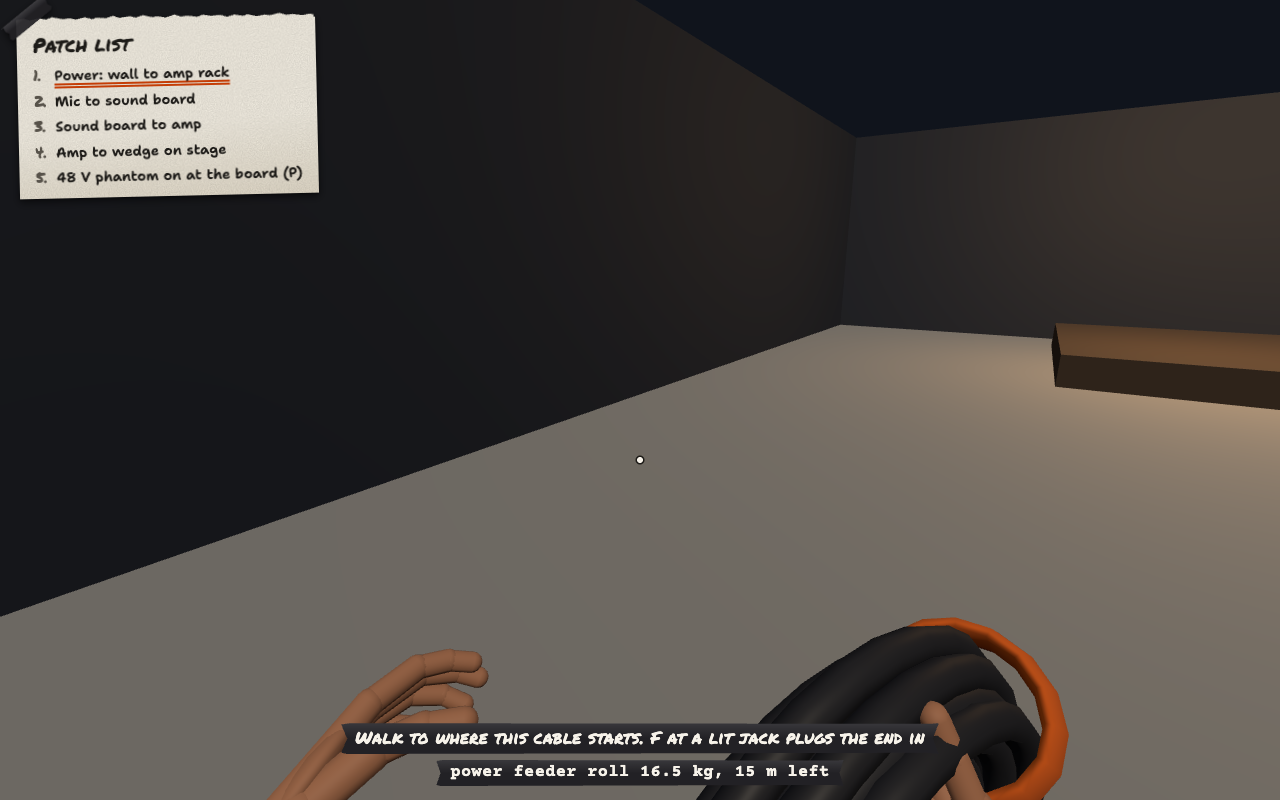
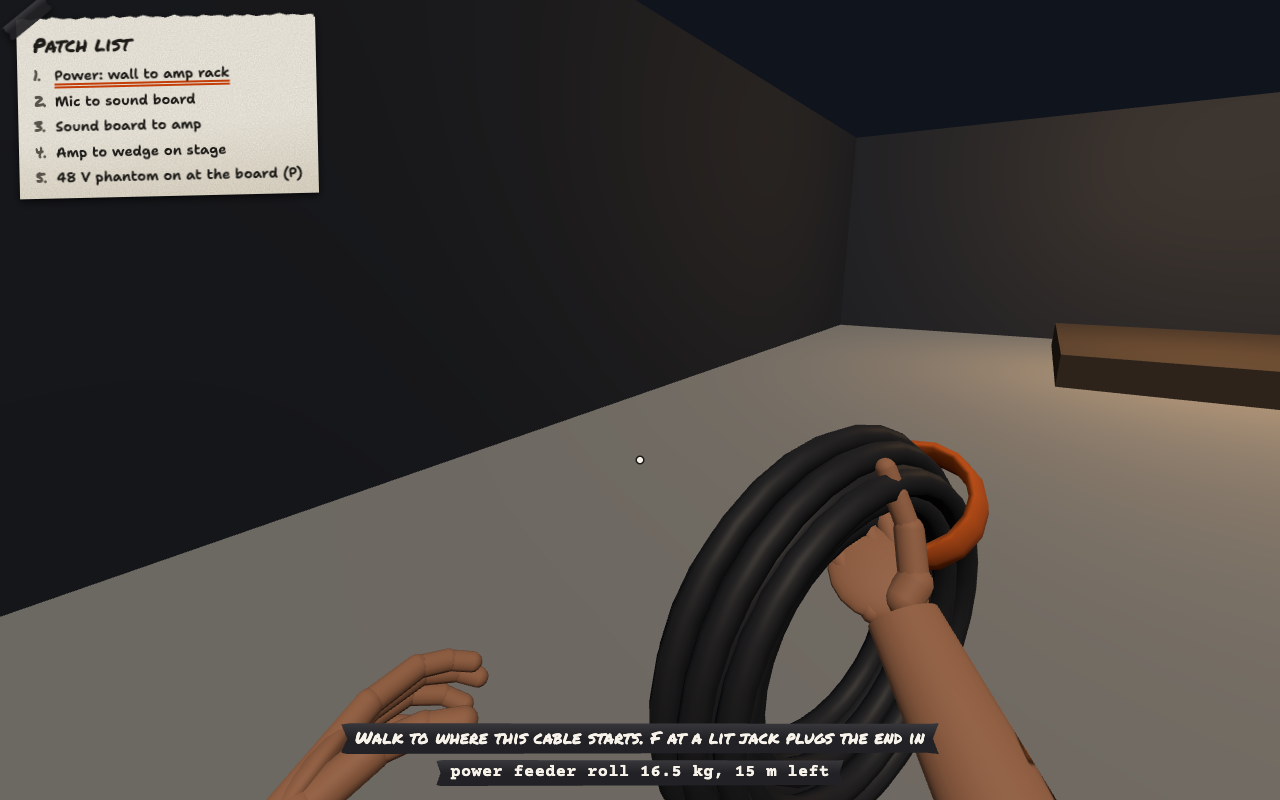
Sound Guy Simulator: the hand that carries a roll rides higher so you see the coil, and the feel room's hints stay on one line on a phone (Part of #5029)

Changed region(s): [[0.5, 0.5312, 0.8438, 1.0], [0.5, 0.9375, 0.5938, 1.0]]

diff --git a/apps/load-in/src/feel/main.ts b/apps/load-in/src/feel/main.ts
@@ -327,7 +327,7 @@ function hud() {
   let hint = "";
   if (roll && hold?.part === "roll") {
     const j = jackNear(roll.kind);
-    hint = j ? `F plug ${roll.tailIn ? "the end" : "it"} into ${j.id}` : roll.tailIn ? "Walk to where this cable starts. F at a lit jack plugs the end in" : "Hold the mouse or Space to wind up, let go to bowl. F puts it down";
+    hint = j ? `F plug ${roll.tailIn ? "the end" : "it"} into ${j.id}` : roll.tailIn ? "Carry it to a lit jack: F plugs the end in" : "Hold to wind up, let go to bowl. F puts it down";
   } else if (roll) hint = jackNear(roll.kind) ? `F plug into ${jackNear(roll.kind)!.id}` : "Walk the end to a lit jack. F lets go";
   else hint = runs.some((q) => q.roll.state === "down" && flat(you, q.roll) < 1.9) ? "F pick up the roll" : flat(you, { x: 0, z: 3.2 }) < 2 ? "P switches 48 V phantom" : "";
   $("hint").textContent = hint;

diff --git a/apps/load-in/feel.html b/apps/load-in/feel.html
@@ -29,6 +29,8 @@
   #hint { margin: 0; font-size: 17px; }
   #said { margin: 0; font: 600 14px var(--pen); }
   #weight { margin: 0; font: 700 17px var(--mono); font-variant-numeric: tabular-nums; }
+  /* One line each on a phone: nothing in the foot wraps. */
+  @media (max-width: 600px) { #hint { font-size: 13px; } #said { font-size: 12px; } #weight { font-size: 13px; } #hint, #weight { white-space: nowrap; } }
   #power { width: min(260px, 70%); height: 12px; border: 2px solid var(--ink); background: linear-gradient(90deg, var(--spot) calc(var(--p, 0) * 100%), var(--paper) 0); }
   #done { margin: 0; padding: 8px 20px 4px; font-size: 30px; --tilt: -2deg; }
   #pad { display: none; gap: 6px; pointer-events: auto; max-width: 100%; }

diff --git a/apps/load-in/src/hands/place.ts b/apps/load-in/src/hands/place.ts
@@ -60,7 +60,12 @@ export function viewFrame(what: What["kind"], kg: number, t: number, speed: numb
       f = frame([0.15, -0.2 - drop, -0.4], [0.35, -0.5 - tip, 0.8], [-0.45, 0.8, -0.35]);
       break;
     // A coil hanging off the fingers, palm up and toward you.
-    case "roll": case "handle":
+    // A coil hangs a forearm's length below the fist, so the fist rides higher and further out than for a handle:
+    // you see most of the coil, not only its top.
+    case "roll":
+      f = frame([0.23, -0.13 - drop, -0.5], [0.2, -0.6 - tip, 0.78], [1, 0.2 + tip, 0]);
+      break;
+    case "handle":
       f = frame([0.2, -0.27 - drop, -0.34], [0.25, -0.55 - tip, 0.8], [1, 0.2 + tip, 0]);
       break;
     default:
